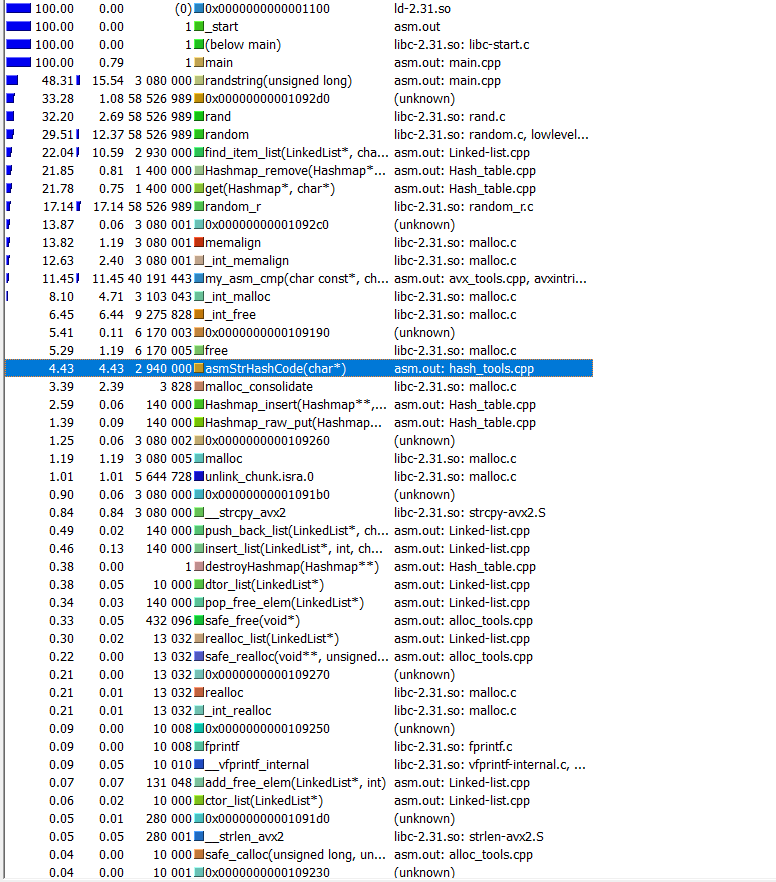
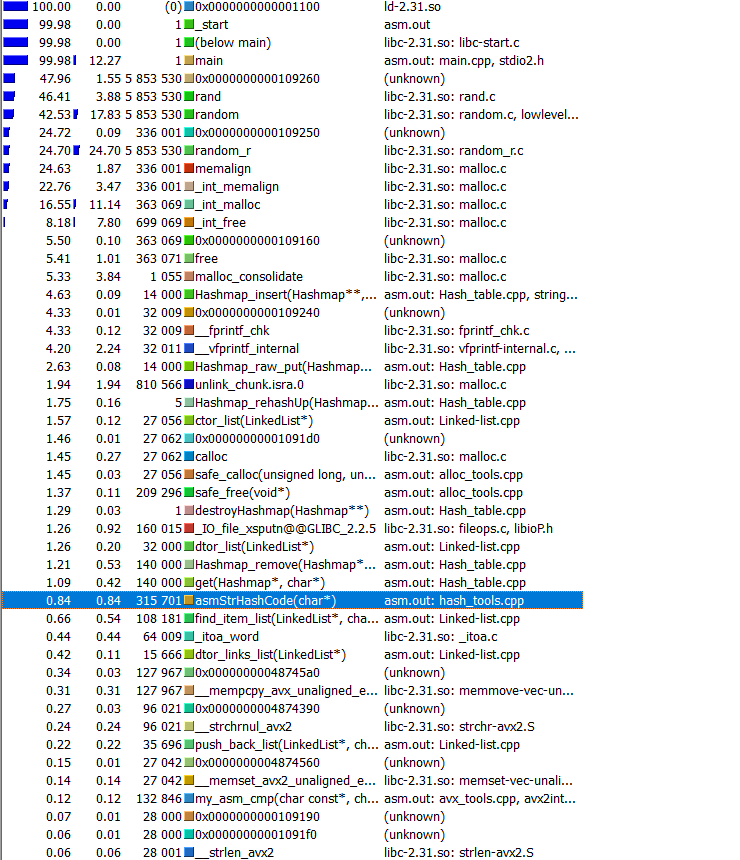
fixed tests

Changed region(s): [[0.0, 0.0, 0.8081, 1.0]]

diff --git a/src/hash_tools.cpp b/src/hash_tools.cpp
@@ -9,28 +9,43 @@ __attribute__((noinline)) uint64_t strHashCode(char* str) {
 }
 
 __attribute__((noinline)) uint64_t asmStrHashCode(char* str) {
-    uint64_t hash = 123456;
-    __asm__ ( ".intel_syntax noprefix\n\t"
-        "mov rsi, %1\n\t"
-        "mov rbx, 1234\n\t"
-        "mov rcx, 0\n\t" 
-        "mov rax, 0\n\t"
-        "begin:\n\t" 
-        "lodsb \n\t"
-        "test al, al\n\t"
-        "je end\n\t"
-        "mov rcx, rbx\n\t"
-        "shl rbx, 7\n\t"
-        "add rbx, rcx\n\t"
-        "xor rbx, rax\n\t"
-        "jmp begin\n\t"
-        "end:\n\t"
-        "mov %0, rbx\n\t"
-        ".att_syntax\n\t"
-        : "=r"(hash) /* выходные операнды */
-        : "r"(str) /* входные операнды */
-        : "%rsi", "%rax", "%rcx", "%rbx" /* разрушаемые регистры */
-        );
+    // uint64_t hash = 123456;
+    // __asm__ ( ".intel_syntax noprefix\n\t"
+    //     "mov rsi, %1\n\t"
+    //     "mov rbx, 1234\n\t"
+    //     "mov rcx, 0\n\t" 
+    //     "mov rax, 0\n\t"
+    //     "begin:\n\t" 
+    //     "lodsb \n\t"
+    //     "test al, al\n\t"
+    //     "je end\n\t"
+    //     "mov rcx, rbx\n\t"
+    //     "shl rbx, 7\n\t"
+    //     "add rbx, rcx\n\t"
+    //     "xor rbx, rax\n\t"
+    //     "jmp begin\n\t"
+    //     "end:\n\t"
+    //     "mov %0, rbx\n\t"
+    //     ".att_syntax\n\t"
+    //     : "=r"(hash) /* выходные операнды */
+    //     : "r"(str) /* входные операнды */
+    //     : "%rsi", "%rax", "%rcx", "%rbx" /* разрушаемые регистры */
+    //     );
+    // return hash;
+     size_t hash = 0;
+    __asm__ (".intel_syntax noprefix\n\t"
+        "mov rcx, 4\n\t"
+        "0:\n\t"
+        "mov rax, [%[arg_val]]\n\t"
+        "crc32 %[ret_val], rax\n\t"
+        "add %[arg_val], 8\n\t"
+        "loop 0b\n\t"
+        "1:\n\t"
+        ".att_syntax prefix\n\t"
+        : [ret_val]"=S"(hash)
+        : [arg_val]"D"(str)
+        :"%rax", "%rcx", "cc"
+    );
     return hash;
 }
 

diff --git a/src/Hash_table.cpp b/src/Hash_table.cpp
@@ -123,8 +123,9 @@ HValue get(Hashmap *map, HKey key) {
 #ifndef ASM_ALLOC
     HKey n_value  = key;
 #else
-    HKey n_value  = (char*) aligned_alloc(32, 32);
-    strcpy(n_value, key);
+    HKey n_value  = key;
+    // HKey n_value  = (char*) aligned_alloc(32, 32);
+    // strcpy(n_value, key);
 #endif
     if (map->lists[index].capacity != 0) {
         int find_ind =  find_item_list(&map->lists[index], n_value);
@@ -133,7 +134,7 @@ HValue get(Hashmap *map, HKey key) {
         }
     }
 #ifdef ASM_ALLOC
-    free(n_value);
+    // free(n_value);
 #endif
     return retVal;
 }
@@ -146,8 +147,9 @@ Entry* Hashmap_remove(Hashmap *map, HKey key) {
 #ifndef ASM_ALLOC
     HKey n_value  = key;
 #else
-    HKey n_value  = (char*) aligned_alloc(32, 32);
-    strcpy(n_value, key);
+    HKey n_value  = key;
+    // HKey n_value  = (char*) aligned_alloc(32, 32);
+    // strcpy(n_value, key);
 #endif
 
     if (map->lists[index].capacity != 0) {
@@ -161,7 +163,7 @@ Entry* Hashmap_remove(Hashmap *map, HKey key) {
     }
     
 #ifdef ASM_ALLOC
-    free(n_value);
+    // free(n_value);
 #endif
     map->size--;
     return content;

diff --git a/src/main.cpp b/src/main.cpp
@@ -15,7 +15,7 @@ char *randstring(size_t length) {
     char *randomString = NULL;
 
     if (length) {
-        randomString = (char*) malloc(sizeof(char) * (length +1));
+        randomString = (char*) aligned_alloc(32, 32);
         // randomString[0] = 'a';
         if (randomString) {            
             for (int n = 0;n < length;n++) {            
@@ -37,9 +37,9 @@ char *randstring(size_t length) {
 
 #define DEBUG
 // #undef DEBUG
-const size_t insert_num_target = 1400000;
-const size_t find_num_target   = 14000000;
-const size_t remove_num_target = 14000000;
+const size_t insert_num_target = 14000;
+const size_t find_num_target   = 140000;
+const size_t remove_num_target = 140000;
 const size_t rand_str_len = 15;
 
 int main() {

diff --git a/src/global_def.hpp b/src/global_def.hpp
@@ -1,2 +1,2 @@
-// #define USE_ASM_OPT
+#define USE_ASM_OPT
 #define NO_RE_HASH 0

diff --git a/README.md b/README.md
@@ -24,29 +24,20 @@ note:
 * ### Hash optimisation with __asm__:
   ```
   __attribute__((noinline)) uint64_t asmStrHashCode(char* str) {
-    uint64_t hash = 123456;
-    __asm__ ( ".intel_syntax noprefix\n\t"
-        "mov rsi, %1\n\t"
-        "mov rbx, 1234\n\t" /* ассемблерная вставка */
-        "mov rcx, 0\n\t" /* ассемблерная вставка */
-        "mov rax, 0\n\t"
-        "begin:\n\t" /* ассемблерная вставка */
-        "lodsb \n\t"
-        "test al, al\n\t"
-        "je end\n\t"
-        "mov rcx, rbx\n\t"
-        "shl rbx, 7\n\t"
-        // "xor rbx, rax\n\t"
-        "add rbx, rcx\n\t"
-        "xor rbx, rax\n\t"
-        "jmp begin\n\t"
-        "end:\n\t"
-        "mov %0, rbx\n\t"
-        ".att_syntax\n\t"
-        : "=r"(hash) /* выходные операнды */
-        : "r"(str) /* входные операнды */
-        : "%rsi", "%rax", "%rcx", "%rbx" /* разрушаемые регистры */
-        );
+     size_t hash = 0;
+    __asm__ (".intel_syntax noprefix\n\t"
+        "mov rcx, 4\n\t"
+        "0:\n\t"
+        "mov rax, [%[arg_val]]\n\t"
+        "crc32 %[ret_val], rax\n\t"
+        "add %[arg_val], 8\n\t"
+        "loop 0b\n\t"
+        "1:\n\t"
+        ".att_syntax prefix\n\t"
+        : [ret_val]"=S"(hash)
+        : [arg_val]"D"(str)
+        :"%rax", "%rcx", "cc"
+    );
     return hash;
   }
   ```
